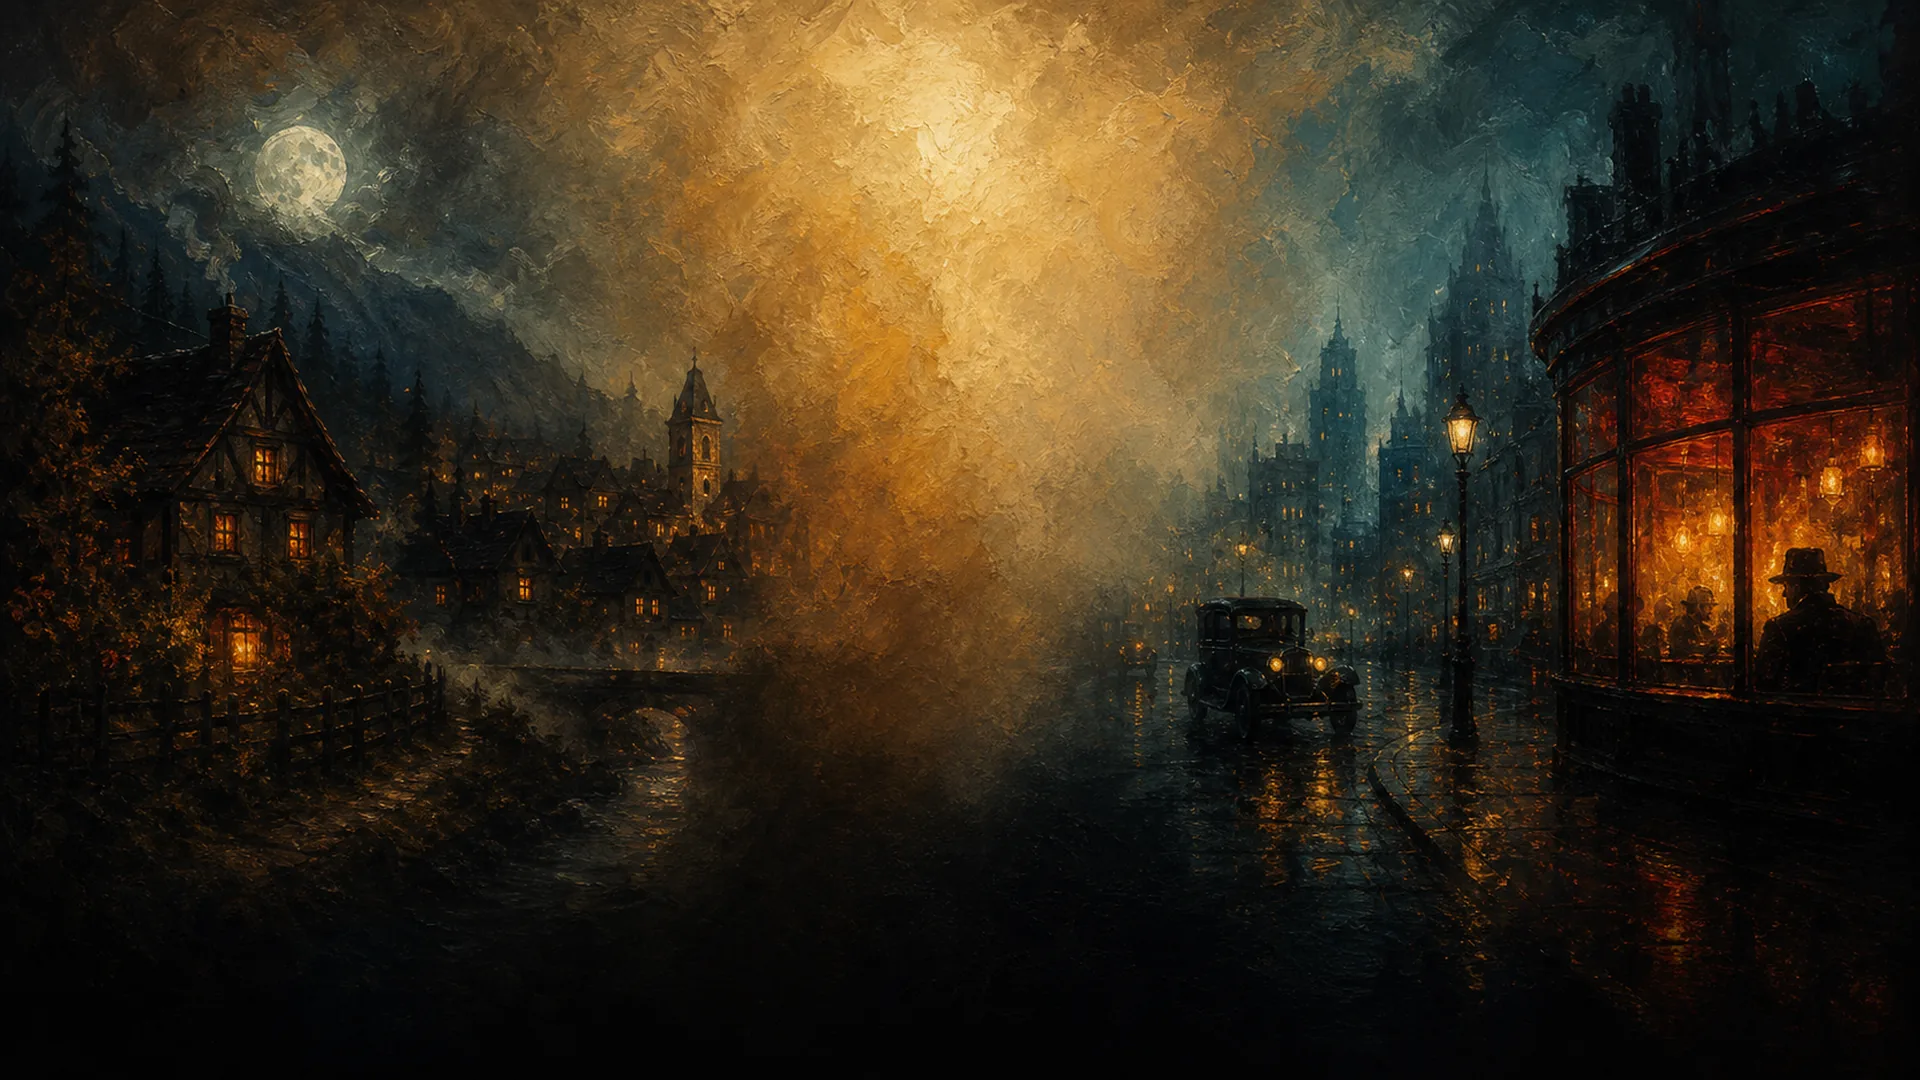
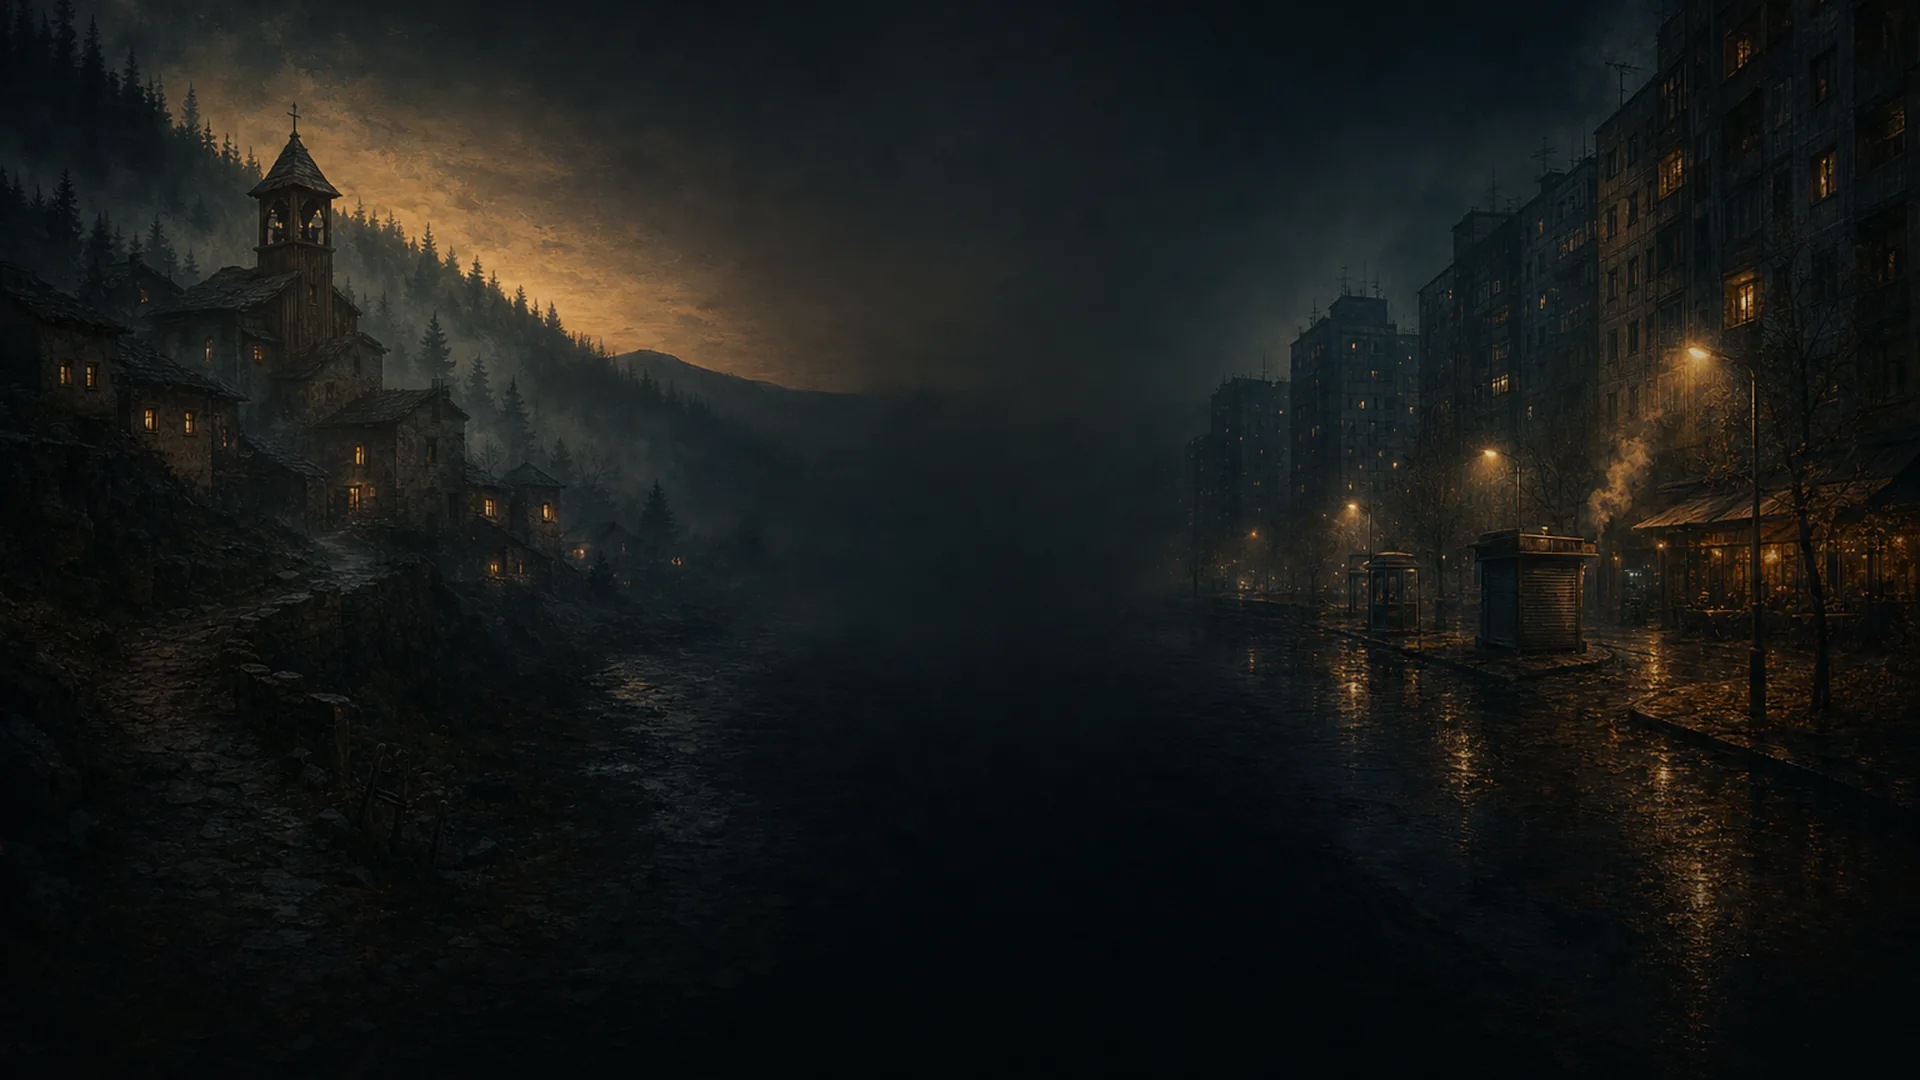
fix(landing): restore wide dual-world hero framing

diff --git a/apps/web/app/globals.css b/apps/web/app/globals.css
@@ -27,7 +27,7 @@
   --art-landing: image-set(url("/game-art/bg-landing-hero.webp") type("image/webp"), url("/game-art/bg-landing-hero.png") type("image/png"));
   --art-landing-ambient: image-set(url("/game-art/bg-landing-ambient.webp") type("image/webp"), url("/game-art/bg-landing-ambient.png") type("image/png"));
   --art-landing-dual: image-set(url("/game-art/bg-landing-dual-world-v2.webp") type("image/webp"), url("/game-art/bg-landing-dual-world-v2.png") type("image/png"));
-  --art-landing-hero-composited: image-set(url("/game-art/bg-landing-hero-composited.webp") type("image/webp"), url("/game-art/bg-landing-hero-composited.png") type("image/png"));
+  --art-landing-hero-composited: image-set(url("/game-art/bg-landing-hero-composited.webp?v=2") type("image/webp"), url("/game-art/bg-landing-hero-composited.png?v=2") type("image/png"));
   --art-landing-ambient-composited: image-set(url("/game-art/bg-landing-ambient-composited.webp") type("image/webp"), url("/game-art/bg-landing-ambient-composited.png") type("image/png"));
   --hero-card-border: rgba(200, 154, 85, 0.28);
   --hero-card-scrim: linear-gradient(180deg, rgba(4, 7, 8, 0) 0%, rgba(4, 7, 8, 0.16) 100%);
@@ -170,7 +170,7 @@
     --art-landing: image-set(url("/game-art/mobile/bg-landing-hero.webp") type("image/webp"));
     --art-landing-ambient: image-set(url("/game-art/mobile/bg-landing-ambient.webp") type("image/webp"));
     --art-landing-dual: image-set(url("/game-art/mobile/bg-landing-dual-world-v2.webp") type("image/webp"));
-    --art-landing-hero-composited: image-set(url("/game-art/mobile/bg-landing-hero-composited.webp") type("image/webp"));
+    --art-landing-hero-composited: image-set(url("/game-art/mobile/bg-landing-hero-composited.webp?v=2") type("image/webp"));
     --art-landing-ambient-composited: image-set(url("/game-art/mobile/bg-landing-ambient-composited.webp") type("image/webp"));
     --art-lobby: image-set(url("/game-art/mobile/bg-lobby-tavern.webp") type("image/webp"));
     --art-reveal: image-set(url("/game-art/mobile/bg-role-reveal.webp") type("image/webp"));
@@ -1487,7 +1487,8 @@ html[data-theme="light"] .site-drawer-nav a.is-active .site-drawer-icon {
   border-color: var(--hero-card-border);
   background:
     var(--hero-card-scrim),
-    var(--art-landing-hero-composited) center top / cover no-repeat;
+    var(--art-landing-hero-composited) center top / 100% auto no-repeat,
+    linear-gradient(145deg, rgba(8, 11, 12, 0.96), rgba(17, 12, 10, 0.92));
   box-shadow: var(--hero-card-shadow);
 }
 
@@ -2995,7 +2996,8 @@ html[data-theme="dark"] .tutorial-nav .btn-secondary:disabled {
   border-color: var(--hero-card-border);
   background:
     var(--hero-card-scrim),
-    var(--art-landing-hero-composited) center top / cover no-repeat;
+    var(--art-landing-hero-composited) center top / 100% auto no-repeat,
+    linear-gradient(145deg, rgba(8, 11, 12, 0.96), rgba(17, 12, 10, 0.92));
   box-shadow: var(--hero-card-shadow);
 }
 

diff --git a/apps/web/components/landing-experience.tsx b/apps/web/components/landing-experience.tsx
@@ -35,9 +35,9 @@ export function LandingExperience({ initialSession }: { initialSession: LandingS
     <main className="shell landing-shell">
       <ResourceHints
         images={[
-          { href: "/game-art/bg-landing-hero-composited.webp", media: "(min-width: 721px)" },
+          { href: "/game-art/bg-landing-hero-composited.webp?v=2", media: "(min-width: 721px)" },
           { href: "/game-art/bg-landing-ambient-composited.webp", media: "(min-width: 721px)" },
-          { href: "/game-art/mobile/bg-landing-hero-composited.webp", media: "(max-width: 720px)" },
+          { href: "/game-art/mobile/bg-landing-hero-composited.webp?v=2", media: "(max-width: 720px)" },
           { href: "/game-art/mobile/bg-landing-ambient-composited.webp", media: "(max-width: 720px)" },
           { href: "/game-art/logo-landing-mark.webp" },
         ]}
